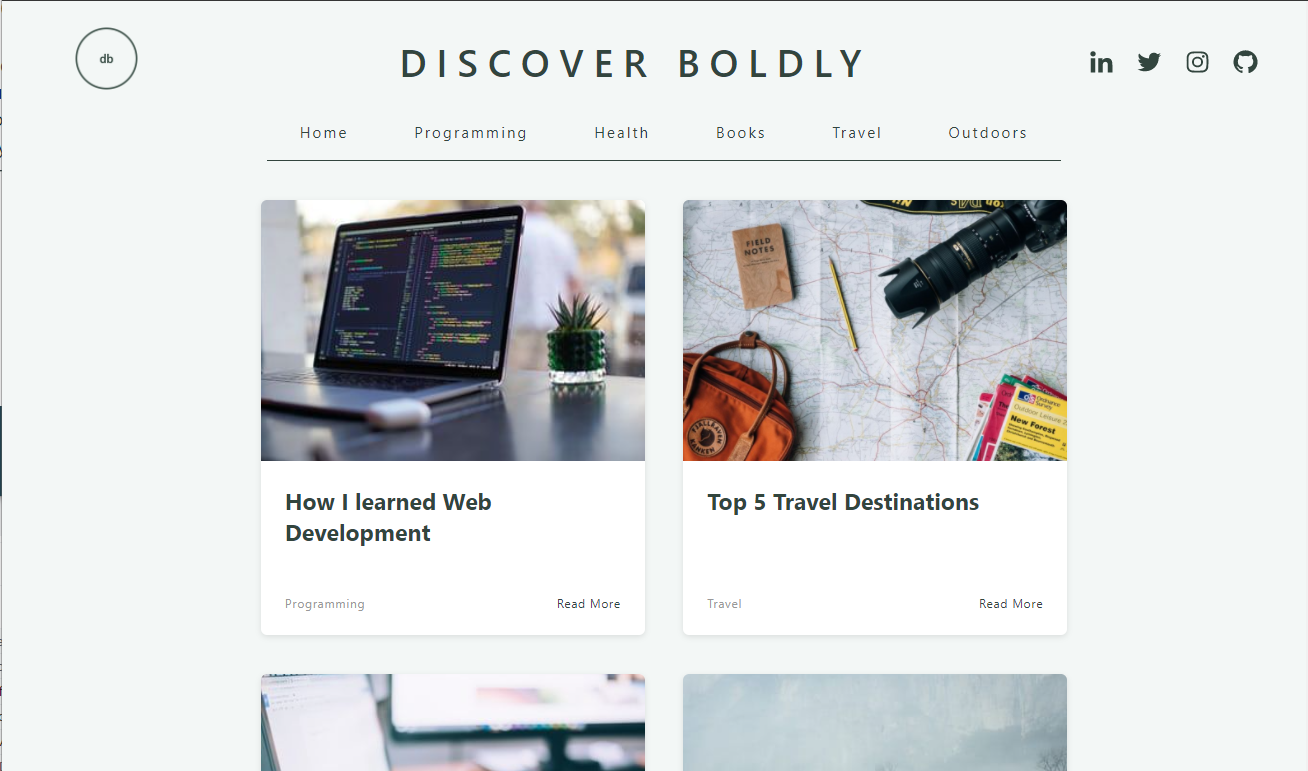
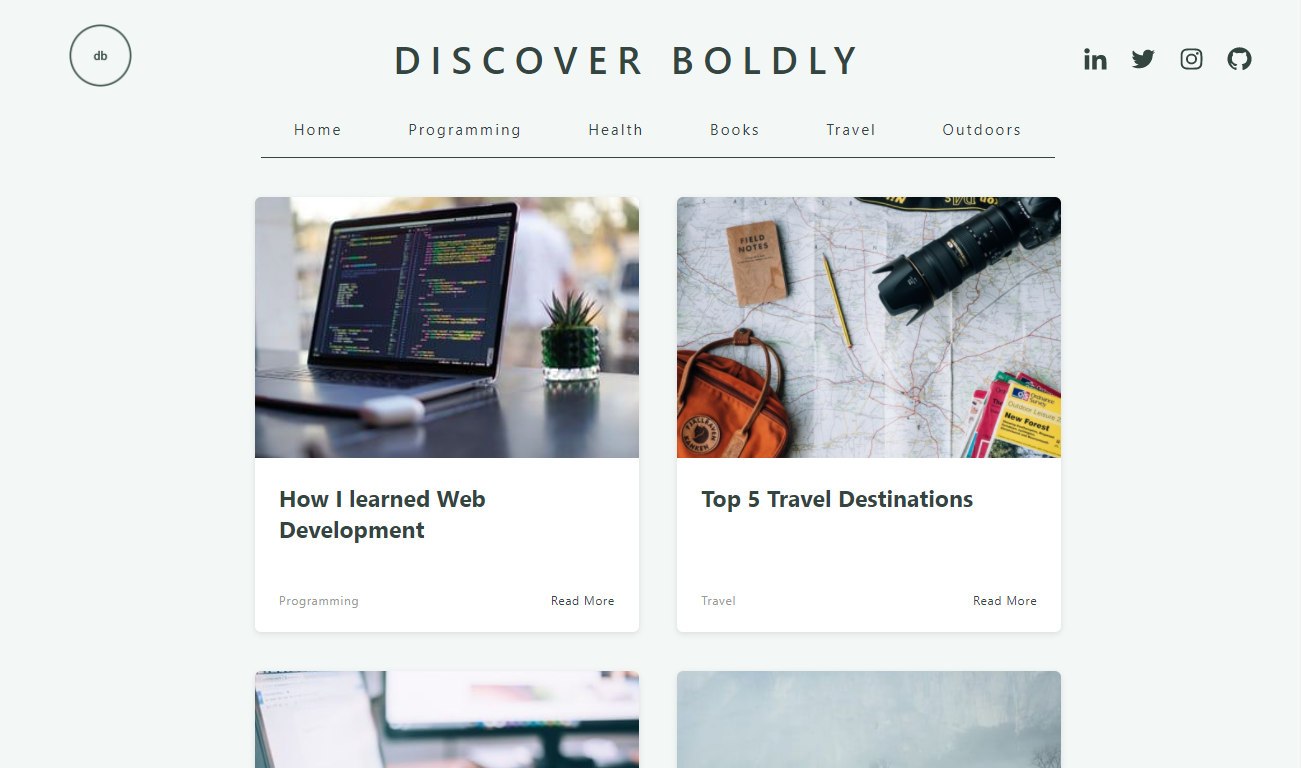
Updating contact form

diff --git a/src/componenets/projectHome.js b/src/componenets/projectHome.js
@@ -3,7 +3,7 @@ import styled from "styled-components"
 import netflix from "../images/movie_app.png"
 import money from "../images/money.jpg"
 import blog from "../images/discover_boldly.png"
-import { NodeDotJs, Javascript, Strapi, ReactJs, MaterialUi, Postgresql} from "@icons-pack/react-simple-icons";
+import { NodeDotJs, Strapi, ReactJs, MaterialUi, Postgresql} from "@icons-pack/react-simple-icons";
 
 
 const Wrapper = styled.main`
@@ -89,7 +89,7 @@ const Project = styled.div`
 const Image = styled.img`
     width: 30%;
     height: auto;
-    object-fit: cover;
+    object-fit: contain;
 
     @media (max-width: 1024px) {
         height: 30%;
@@ -226,11 +226,11 @@ const ProjectHome = () => (
                 <span>|</span>
                 <span><a href="https://github.com/danielbednarz2/Discover-Boldly" target="_blank" rel="noreferrer">Source Code</a></span>
             </Links>
-            <p>This is my personal blog, I've used React for component-based structure and Strapi as a headless CMS to post content.</p>
+            <p>This is my personal blog, I've used React for component-based structure, Strapi as a headless CMS to serve content, and PostgreSQL to store article and category information.</p>
             <TechnologiesIncludes>Technologies included:</TechnologiesIncludes>
             <ul>
-                <li><Javascript className="myJS" /></li> 
                 <li><ReactJs className="myReact" /></li> 
+                <li><Postgresql className="myPostgresql" /></li> 
                 <li><Strapi className="myStrapi" /></li>
             </ul>
             </Description>

diff --git a/src/componenets/contactHome.js b/src/componenets/contactHome.js
@@ -31,7 +31,8 @@ const Form = styled.form`
     box-shadow: 0px 0px 20px 0px rgba(0, 0, 0, 0.3);
     display: flex;
     flex-direction: column;
-    justify-content: center;
+    justify-content: flex-start;
+    border-radius: 5px;
 
     
     > * {
@@ -125,11 +126,16 @@ const Form = styled.form`
     @media(min-width:1200px) {
         width: 33%;
     }
+
+    @media(min-width:1500px) {
+        width: 25%;
+    }
 `
 
 const FormFieldset = styled.fieldset`
     display: flex;
     border: none;
+    justify-content: space-between;
 
     @media (max-width: 768px) {
         flex-direction: column;
@@ -139,7 +145,7 @@ const FormFieldset = styled.fieldset`
 const NameInput = styled.div`
     display: flex;
     flex-direction: column;
-    width: 50%;
+    width: 47.5%;
 
     @media (max-width: 768px) {
         flex-direction: row;
